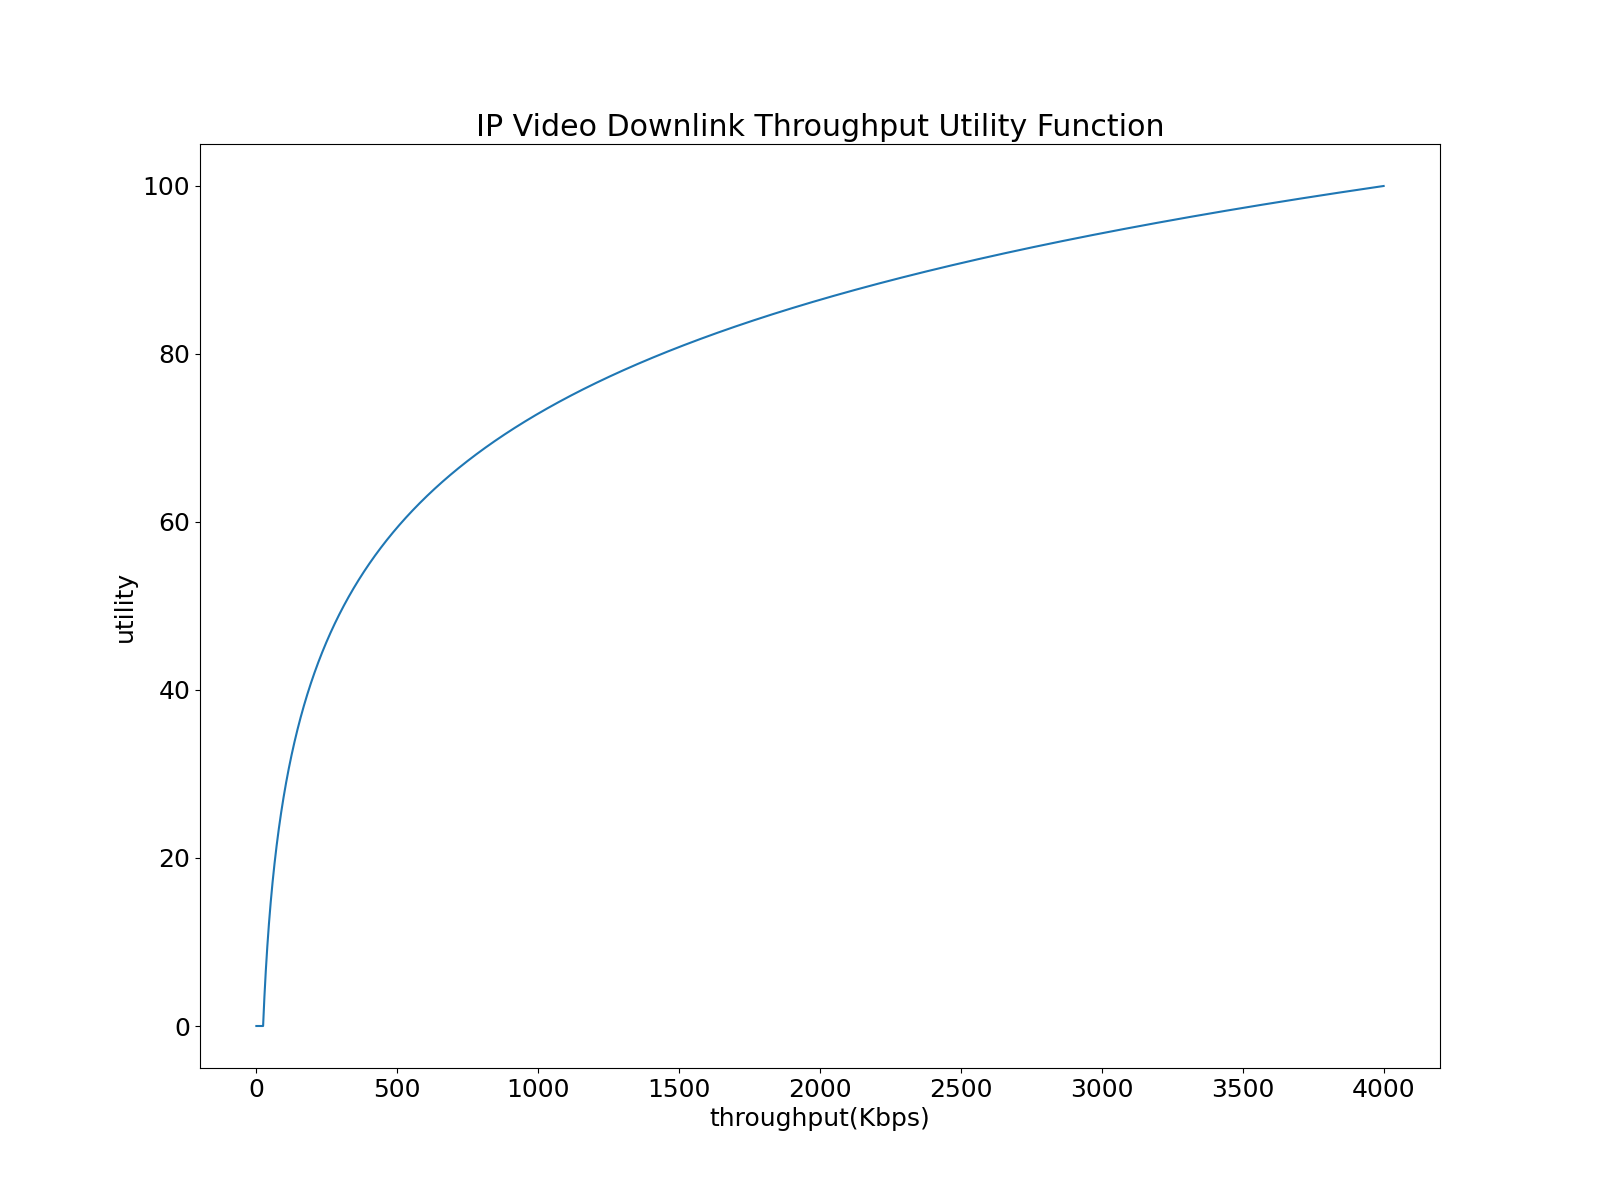
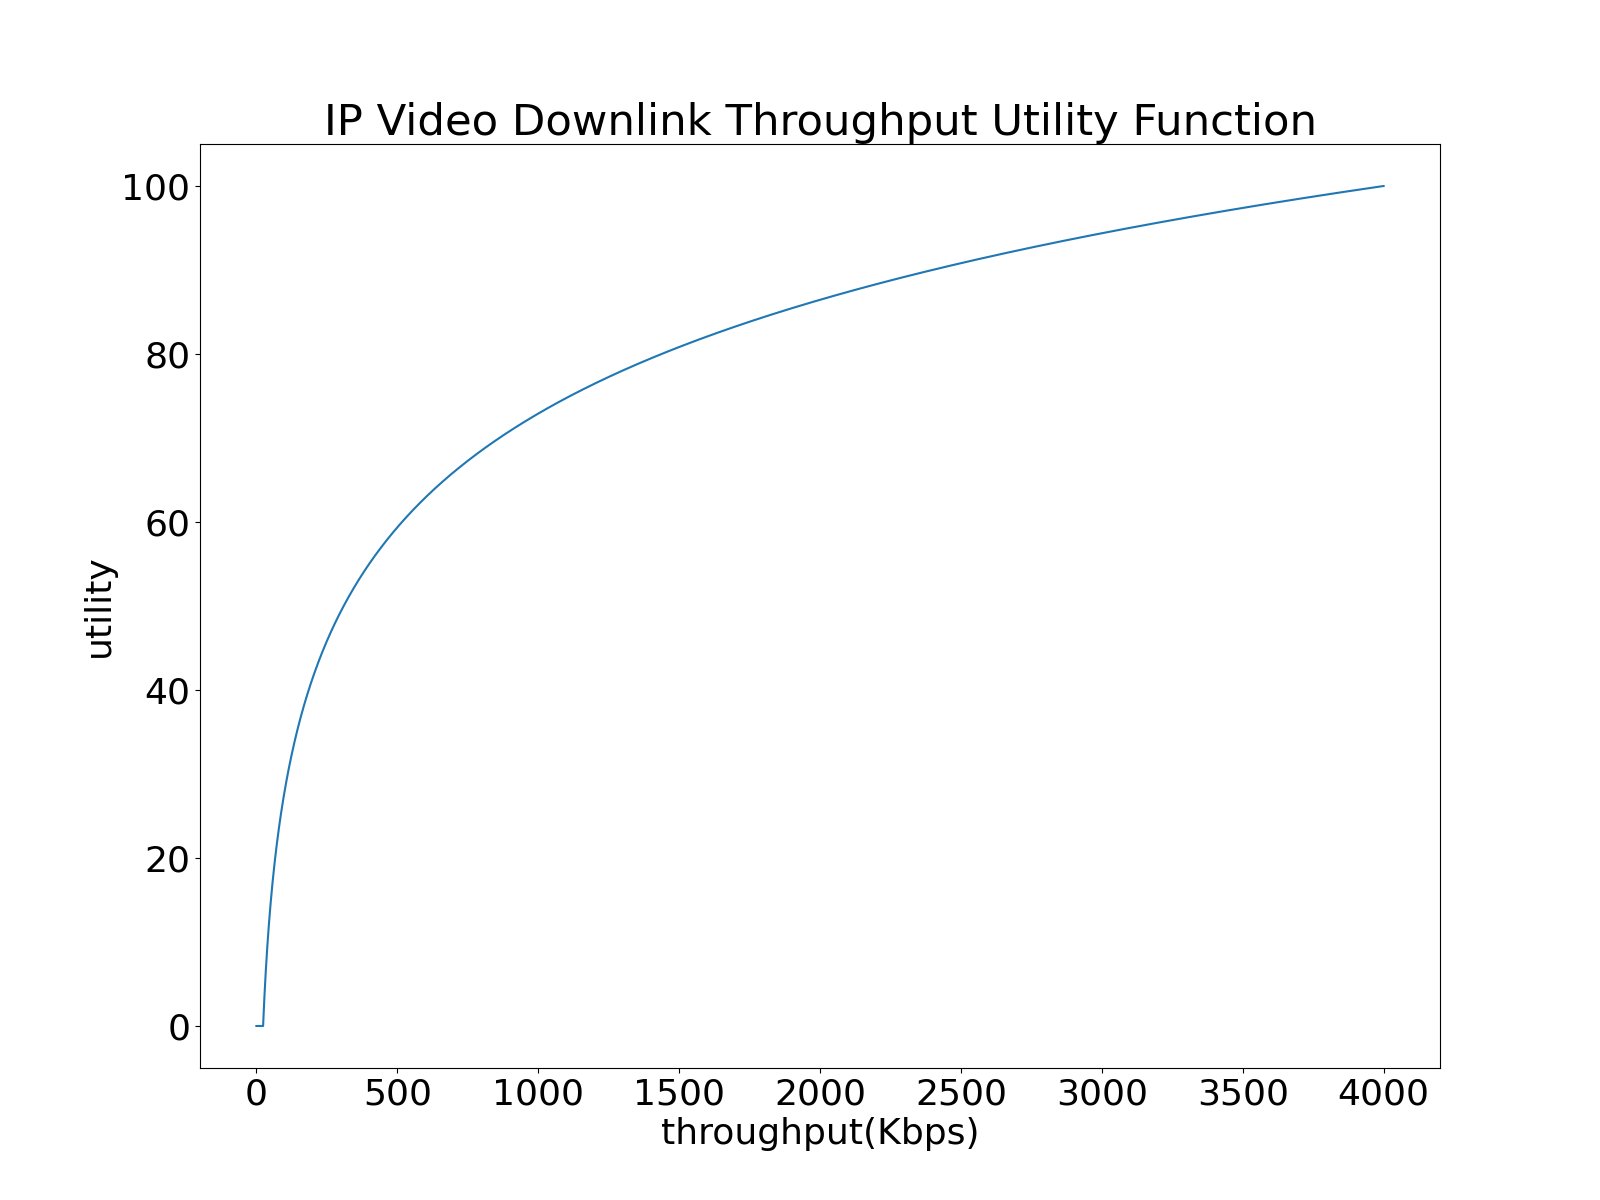
Bigger font.

diff --git a/plot_distri_utilFunc.py b/plot_distri_utilFunc.py
@@ -7,7 +7,7 @@ from data.parameters import *
 import os
 
 plt.rcParams.update({
-    'font.size': 18
+    'font.size': 26
 })
 
 dir = './figs/distributions/'
